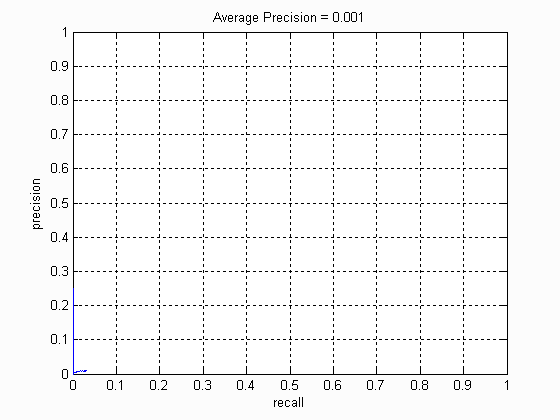
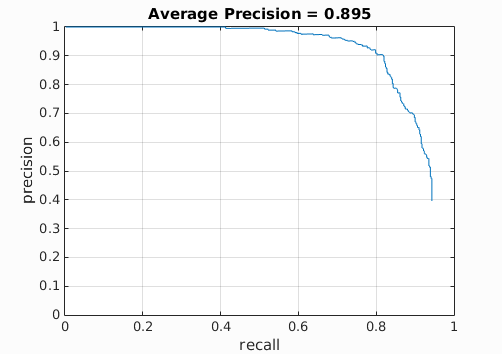
my website

diff --git a/html/index.html b/html/index.html
@@ -1,6 +1,6 @@
 <html>
 <head>
-<title>CS 143 Project</title>
+<title>Face Detection Project</title>
 <link href='http://fonts.googleapis.com/css?family=Nunito:300|Crimson+Text|Droid+Sans+Mono' rel='stylesheet' type='text/css'>
 <link rel="stylesheet" title="Default" href="styles/github.css">
 <script src="http://ajax.googleapis.com/ajax/libs/jquery/1.3.2/jquery.min.js"></script>  
@@ -141,58 +141,161 @@ table td img {
 </div>
 <div class="container">
 
-<h2>CS 143 / Project 4 / Face Detection with a Sliding Window</h2>
+<h2>Project 4 / Face Detection with a Sliding Window</h2>
 
 <div style="float: right; padding: 20px">
-<img src="placeholder.jpg" />
-<p style="font-size: 14px">Example of a right floating element.</p>
+<img src="pic_1.png" />
+<p style="font-size: 14px">Example of a right face detection.</p>
 </div>
 
-<p> 	Lorem ipsum dolor sit amet, consectetur adipisicing elit, sed do eiusmod tempor incididunt ut labore et dolore magna aliqua. Ut enim ad minim veniam, quis nostrud exercitation ullamco laboris nisi ut aliquip ex ea commodo consequat. Duis aute irure dolor in reprehenderit in voluptate velit esse cillum dolore eu fugiat nulla pariatur. Excepteur sint occaecat cupidatat non proident, sunt in culpa qui officia deserunt mollit anim id est laborum.</p>
+<p> 	In this project, sliding window is implemented for face detection. As sliding window can be used in most object detection, it also works well in finding faces. The HOG (Histogram of Gradient) is used as representation of feature template, and then trained by SVM (Support Vector Machine) to locate faces in test images. Multi-scale sliding window and Hard Negative Mining are used to better the result. Mirror the HOG feature was also tried. The major steps involved can be seen as follow:</p>
 
 <ol>
-<li>list element 1.</li>
-<li>list element 2.</li>
-<li>etc.</li>
+<li>Extract HOG from positive training images</li>
+<li>Extract HOG randomly from negative training images</li>
+<li>Train linear SVM classifier</li>
+<li>Detect faces (multi-scale sliding window) and non maximum suppression</li>
 </ol>
 
-<p> 	Lorem ipsum dolor sit amet, consectetur adipisicing elit, sed do eiusmod tempor incididunt ut labore et dolore magna aliqua. Ut enim ad minim veniam, quis nostrud exercitation ullamco laboris nisi ut aliquip ex ea commodo consequat. Duis aute irure dolor in reprehenderit in voluptate velit esse cillum dolore eu fugiat nulla pariatur. Excepteur sint occaecat cupidatat non proident, sunt in culpa qui officia deserunt mollit anim id est laborum.</p>
+<p> 	The positive training images are from Caltech faces, each with one or more faces. In HOG representation, the 36*36 pixel window are tiled into 6*6 pixel cells, and each cell represented by 31 orientation bins. Hence the feature vector dimension is (templatesize / cellsize).^2*31. Apart from this, I also tried to use mirror HOG based on original ones to form more positive samples. The details are shown as follow:</p>
 
 <div style="clear:both">
-<h3>Example heading</h3>
+<h3>Part 1. Extract HOG from positive training images</h3>
 
-<p> 	Lorem ipsum dolor sit amet, consectetur adipisicing elit, sed do eiusmod tempor incididunt ut labore et dolore magna aliqua. Ut enim ad minim veniam, quis nostrud exercitation ullamco laboris nisi ut aliquip ex ea commodo consequat. Duis aute irure dolor in reprehenderit in voluptate velit esse cillum dolore eu fugiat nulla pariatur. Excepteur sint occaecat cupidatat non proident, sunt in culpa qui officia deserunt mollit anim id est laborum.</p>
+<p> 	The positive training images are from Caltech faces, each with one or more faces. In HOG representation, the 36*36 pixel window are tiled into 6*6 pixel cells, and each cell represented by 31 orientation bins. Hence the feature vector dimension is (templatesize / cellsize).^2*31. Apart from this, I also tried to use mirror HOG based on original ones to form more positive samples. The details are shown as follow:</p>
 
-<h2>Example of code with highlighting</h2>
-The javascript in the <code>highlighting</code> folder is configured to do syntax highlighting in code blocks such as the one below.<p>
 
 <pre><code>
-%example code
-for i = 1:length(offset)
-    source = imread(sprintf('%s/source_%02d.jpg',data_dir,i));
-    mask   = imread(sprintf('%s/mask_%02d.jpg',data_dir,i));
-    target = imread(sprintf('%s/target_%02d.jpg',data_dir,i));
-
+...
+perm = vl_hog('permutation') ;
+for i=1:1:num_images
+    img=single(imread([train_path_pos,'/',image_files(i).name]));%% to be same with run_detector
+    HOG1 = vl_hog(img, feature_params.hog_cell_size);
+    features_pos(2*i-1,:)=reshape(HOG1,1,[]);
+    HOG2 = HOG1(:,end:-1:1,perm);
+    features_pos(2*i,:)=reshape(HOG2,1,[]);
+end
+...
 </code></pre>
 
-<h3>Results in a table</h3>
+<h3>Part 2 Extract HOG randomly from negative training images</h3>
+
+<p>		The sampling of negative features is achieved by selecting random windows in non face images. By trying out different values, I found total number of these random HOG features can also vary the accuracy of detection, hence the total number of negative feature here is 20000. Main process is as follow: </p>
+
+<pre><code>
+...
+for i=1:1:num_images
+    img = single( rgb2gray(imread([non_face_scn_path,'/',image_files(i).name]) ));%% to be same with run_detector
+    [img_x,img_y] = size(img);
+    
+    rand_x = ceil( rand(1,num_per_img) * (img_x -feature_params.template_size));  
+    rand_y = ceil( rand(1,num_per_img) * (img_y -feature_params.template_size));  
+    for j=1:1:num_per_img
+        rand_img = img(rand_x(j):rand_x(j) + feature_params.template_size - 1, rand_y(j):rand_y(j) + feature_params.template_size - 1);
+        HOG = vl_hog(rand_img, feature_params.hog_cell_size);
+        features_neg((i - 1) * num_per_img + j,:)=reshape(HOG,1,[]);
+    end
+end
+...
+</code></pre>
+
+<h3>Part 3 Train linear SVM classifier</h3>
+<p>		There isn't a m file for this part, it is written in proj5.m. The positive HOG feature group and negative HOG feature group are given different label and trained in linear svm. This process can be the only training in the whole process or the initial training step before Mining Hard Negatives. (lambda = 0.0001 )</p>
+
+<pre><code>
+...
+feature  = [features_pos; features_neg];
+label  = [ones(size(features_pos,1),1); -1 * ones(size(features_neg,1),1)];
+[w, b] = vl_svmtrain(feature', label, lambda);
+...
+</code></pre>
+
+
+<h3> Part 4 Detect faces and non maximum suppression</h3>
+
+<p>		After training SVM, the set of coefficient w and b can be used to detect faces in basic and extra test images. The detection process is similar to finding hard negatives. The difference is that non maximum suppression is applied in this stage. Multi-scale sliding window also has the fixed set of scaling from 0.1 to 1 and stepsize equals to cellsize: </p>
+
+<pre><code>
+...
+for i = 1:length(test_scenes)
+    
+    fprintf('Detecting faces in %s\n', test_scenes(i).name)
+    img = imread( fullfile( test_scn_path, test_scenes(i).name ));
+    if(size(img,3) > 1)
+        img = rgb2gray(img);
+    end
+    img = single(img);
+    cur_bboxes = zeros(0,4);
+    cur_confidences = zeros(0,1);
+    cur_image_ids = cell(0,1);
+    for s = 0.04:scale_step:1.05
+        
+        scaled_img = imresize(img,s);
+        hog_img = vl_hog(scaled_img,feature_params.hog_cell_size);
+        hog_x = size(hog_img,2);
+        hog_y = size(hog_img,1);
+        if (hog_x < t_c || hog_y < t_c)
+            continue;
+        end
+        hog_traverse = [];
+        hog_x_index = [];
+        hog_y_index = [];
+        hog_traverse((hog_x - t_c + 1) * (hog_y - t_c + 1),t_c ^ 2 * 31) = 0;
+        hog_x_index((hog_x - t_c + 1) * (hog_y - t_c + 1),1) = 0;
+        hog_y_index((hog_x - t_c + 1) * (hog_y - t_c + 1),1) = 0;
+        for x = 1:1:(hog_x - t_c + 1)
+            for y = 1:1:(hog_y - t_c + 1)
+                hog_traverse((hog_y - t_c + 1) * (x-1) + y,:) =  reshape(hog_img(y:(y + t_c - 1),x:(x + t_c - 1),:),1,[]) ;
+                hog_x_index((hog_y - t_c + 1) * (x-1) + y,1) = x;
+                hog_y_index((hog_y - t_c + 1) * (x-1) + y,1) = y;
+            end
+        end
+        hog_traverse_result = (hog_traverse * w) + b;
+        good_index = find(hog_traverse_result > confident_thresh);
+
+        ...
+                
+        good_hog = hog_traverse_result(good_index);
+        good_x_index = hog_x_index(good_index);
+        good_y_index = hog_y_index(good_index);
+                
+        img_x_min = (feature_params.hog_cell_size * (good_x_index -1)) ./s;
+        img_y_min = (feature_params.hog_cell_size * (good_y_index -1)) ./s;
+        img_x_max = (feature_params.hog_cell_size * (good_x_index -1 + t_c -1)) ./s;
+        img_y_max = (feature_params.hog_cell_size * (good_y_index -1 + t_c -1)) ./s;
+        img_ids = repmat({test_scenes(i).name}, size(good_index,1), 1);
+        
+        ...
+    end
+    
+    [is_maximum] = non_max_supr_bbox(cur_bboxes, cur_confidences, size(img));
+    
+    ...
+end
+...
+</code></pre>
+
+
+
+
+<h3>Results </h3>
 
 <table border=1>
 <tr>
 <td>
-<img src="placeholder.jpg" width="24%"/>
-<img src="placeholder.jpg"  width="24%"/>
-<img src="placeholder.jpg" width="24%"/>
-<img src="placeholder.jpg" width="24%"/>
+<img src="pic_2.png" width="24%"/>
+<img src="pic_3.png"  width="24%"/>
+<img src="pic_4.png" width="24%"/>
+<img src="pic_5.png" width="24%"/>
 </td>
 </tr>
 
 <tr>
 <td>
-<img src="placeholder.jpg" width="24%"/>
-<img src="placeholder.jpg"  width="24%"/>
-<img src="placeholder.jpg" width="24%"/>
-<img src="placeholder.jpg" width="24%"/>
+<img src="pic_6.png" width="24%"/>
+<img src="pic_7.png"  width="24%"/>
+<img src="pic_8.png" width="24%"/>
+<img src="pic_9.png" width="24%"/>
 </td>
 </tr>
 
@@ -200,7 +303,7 @@ for i = 1:length(offset)
 
 <center>
 <p>
-Face template HoG visualization for the starter code. This is completely random, but it should actually look like a face once you train a reasonable classifier.
+Hog representation sample is in the format as follow :
 <p>
 <img src="hog_template.png">
 <p>
@@ -208,13 +311,16 @@ Precision Recall curve for the starter code.
 <p>
 <img src="average_precision.png">
 <p>
-Example of detection on the test set from the starter code.
-<img src="detections_Argentina.jpg.png">
+Example of detection on the extra test set .
+<p>
+
+<img src="pic_10.png">
+<img src="pic_11.png">
 
 </center>
 
 <div style="clear:both" >
-<p> 	Lorem ipsum dolor sit amet, consectetur adipisicing elit, sed do eiusmod tempor incididunt ut labore et dolore magna aliqua. Ut enim ad minim veniam, quis nostrud exercitation ullamco laboris nisi ut aliquip ex ea commodo consequat. Duis aute irure dolor in reprehenderit in voluptate velit esse cillum dolore eu fugiat nulla pariatur. Excepteur sint occaecat cupidatat non proident, sunt in culpa qui officia deserunt mollit anim id est laborum.</p>
+<p>     In conclusion, when the sampling of positive HOG feature(with the option to apply mirror results) and negative HOG feature(number of generated random windows) is the major factor influencing the level of accuracy. The setting of multi-scale sliding window and mining hard negative can help to better the results. Also, the value of detection threshold also influence the result, and value with good performance is between 0.75 and 0.85. The maximum accuracy I got is 89.5%, perhaps other techniques need to be include to elevate beyond 90%.</p>
 </div>
 </body>
 </html>

diff --git a/test.m b/test.m
@@ -9,9 +9,9 @@ clc
 
 load('w_b.mat');
 
-scale_step = 0.09;
+scale_step = 0.1;
 cell_step = 1; 
-confident_thresh = 0.75;
+confident_thresh = 0.8;
 
 run('vlfeat-0.9.20/toolbox/vl_setup')
 
@@ -21,7 +21,7 @@ data_path = '../data/'; %change if you want to work with a network copy
 train_path_pos = fullfile(data_path, 'caltech_faces/Caltech_CropFaces'); %Positive training examples. 36x36 head crops
 non_face_scn_path = fullfile(data_path, 'train_non_face_scenes'); %We can mine random or hard negatives from here
 test_scn_path = fullfile(data_path,'test_scenes/test_jpg'); %CMU+MIT test scenes
-% test_scn_path = fullfile(data_path,'extra_test_scenes'); %Bonus scenes
+%test_scn_path = fullfile(data_path,'extra_test_scenes'); %Bonus scenes
 label_path = fullfile(data_path,'test_scenes/ground_truth_bboxes.txt'); %the ground truth face locations in the test set
 
 %The faces are 36x36 pixels, which works fine as a template size. You could
@@ -60,11 +60,11 @@ feature_params = struct('template_size', 36, 'hog_cell_size', 6);
 % for testing on extra images (it is commented out below).
 
 % Don't modify anything in 'evaluate_detections'!
-[gt_ids, gt_bboxes, gt_isclaimed, tp, fp, duplicate_detections] = ...
+%[gt_ids, gt_bboxes, gt_isclaimed, tp, fp, duplicate_detections] = ...
     evaluate_detections(bboxes, confidences, image_ids, label_path);
 
 visualize_detections_by_image(bboxes, confidences, image_ids, tp, fp, test_scn_path, label_path)
-% visualize_detections_by_image_no_gt(bboxes, confidences, image_ids, test_scn_path)
+%visualize_detections_by_image_no_gt(bboxes, confidences, image_ids, test_scn_path)
 
 % visualize_detections_by_confidence(bboxes, confidences, image_ids, test_scn_path, label_path);
 

diff --git a/run_detector.m b/run_detector.m
@@ -51,15 +51,14 @@ for i = 1:length(test_scenes)
     
     fprintf('Detecting faces in %s\n', test_scenes(i).name)
     img = imread( fullfile( test_scn_path, test_scenes(i).name ));
-    img = single(img);
     if(size(img,3) > 1)
         img = rgb2gray(img);
     end
-    
-    cur_bboxes = zeros(0,4);
-    cur_confidences = zeros(0,1);
-    cur_image_ids = cell(0,1);
-    for s = 0.05:scale_step:1.05
+    img = single(img);
+     cur_bboxes = zeros(0,4);
+     cur_confidences = zeros(0,1);
+     cur_image_ids = cell(0,1);
+    for s = 0.04:scale_step:1.05
         
         scaled_img = imresize(img,s);
         hog_img = vl_hog(scaled_img,feature_params.hog_cell_size);
@@ -100,9 +99,17 @@ for i = 1:length(test_scenes)
         img_ids = repmat({test_scenes(i).name}, size(good_index,1), 1);
         
         add_num = size(img_x_min,1);
-        cur_bboxes(end+1:end+add_num,:) = [img_x_min,img_y_min,img_x_max,img_y_max];
-        cur_confidences(end+1:end+add_num,:) = good_hog;
-        cur_image_ids(end+1:end+add_num,:) = img_ids;
+        
+        if isempty(cur_bboxes)
+            cur_bboxes(1:add_num,:) = [img_x_min,img_y_min,img_x_max,img_y_max];
+            cur_confidences(1:add_num,:) = good_hog;
+            cur_image_ids(1:add_num,:) = img_ids;
+            
+        else
+            cur_bboxes(end+1:end+add_num,:) = [img_x_min,img_y_min,img_x_max,img_y_max];
+            cur_confidences(end+1:end+add_num,:) = good_hog;
+            cur_image_ids(end+1:end+add_num,:) = img_ids;
+        end
     end
     
     %You can delete all of this below.
